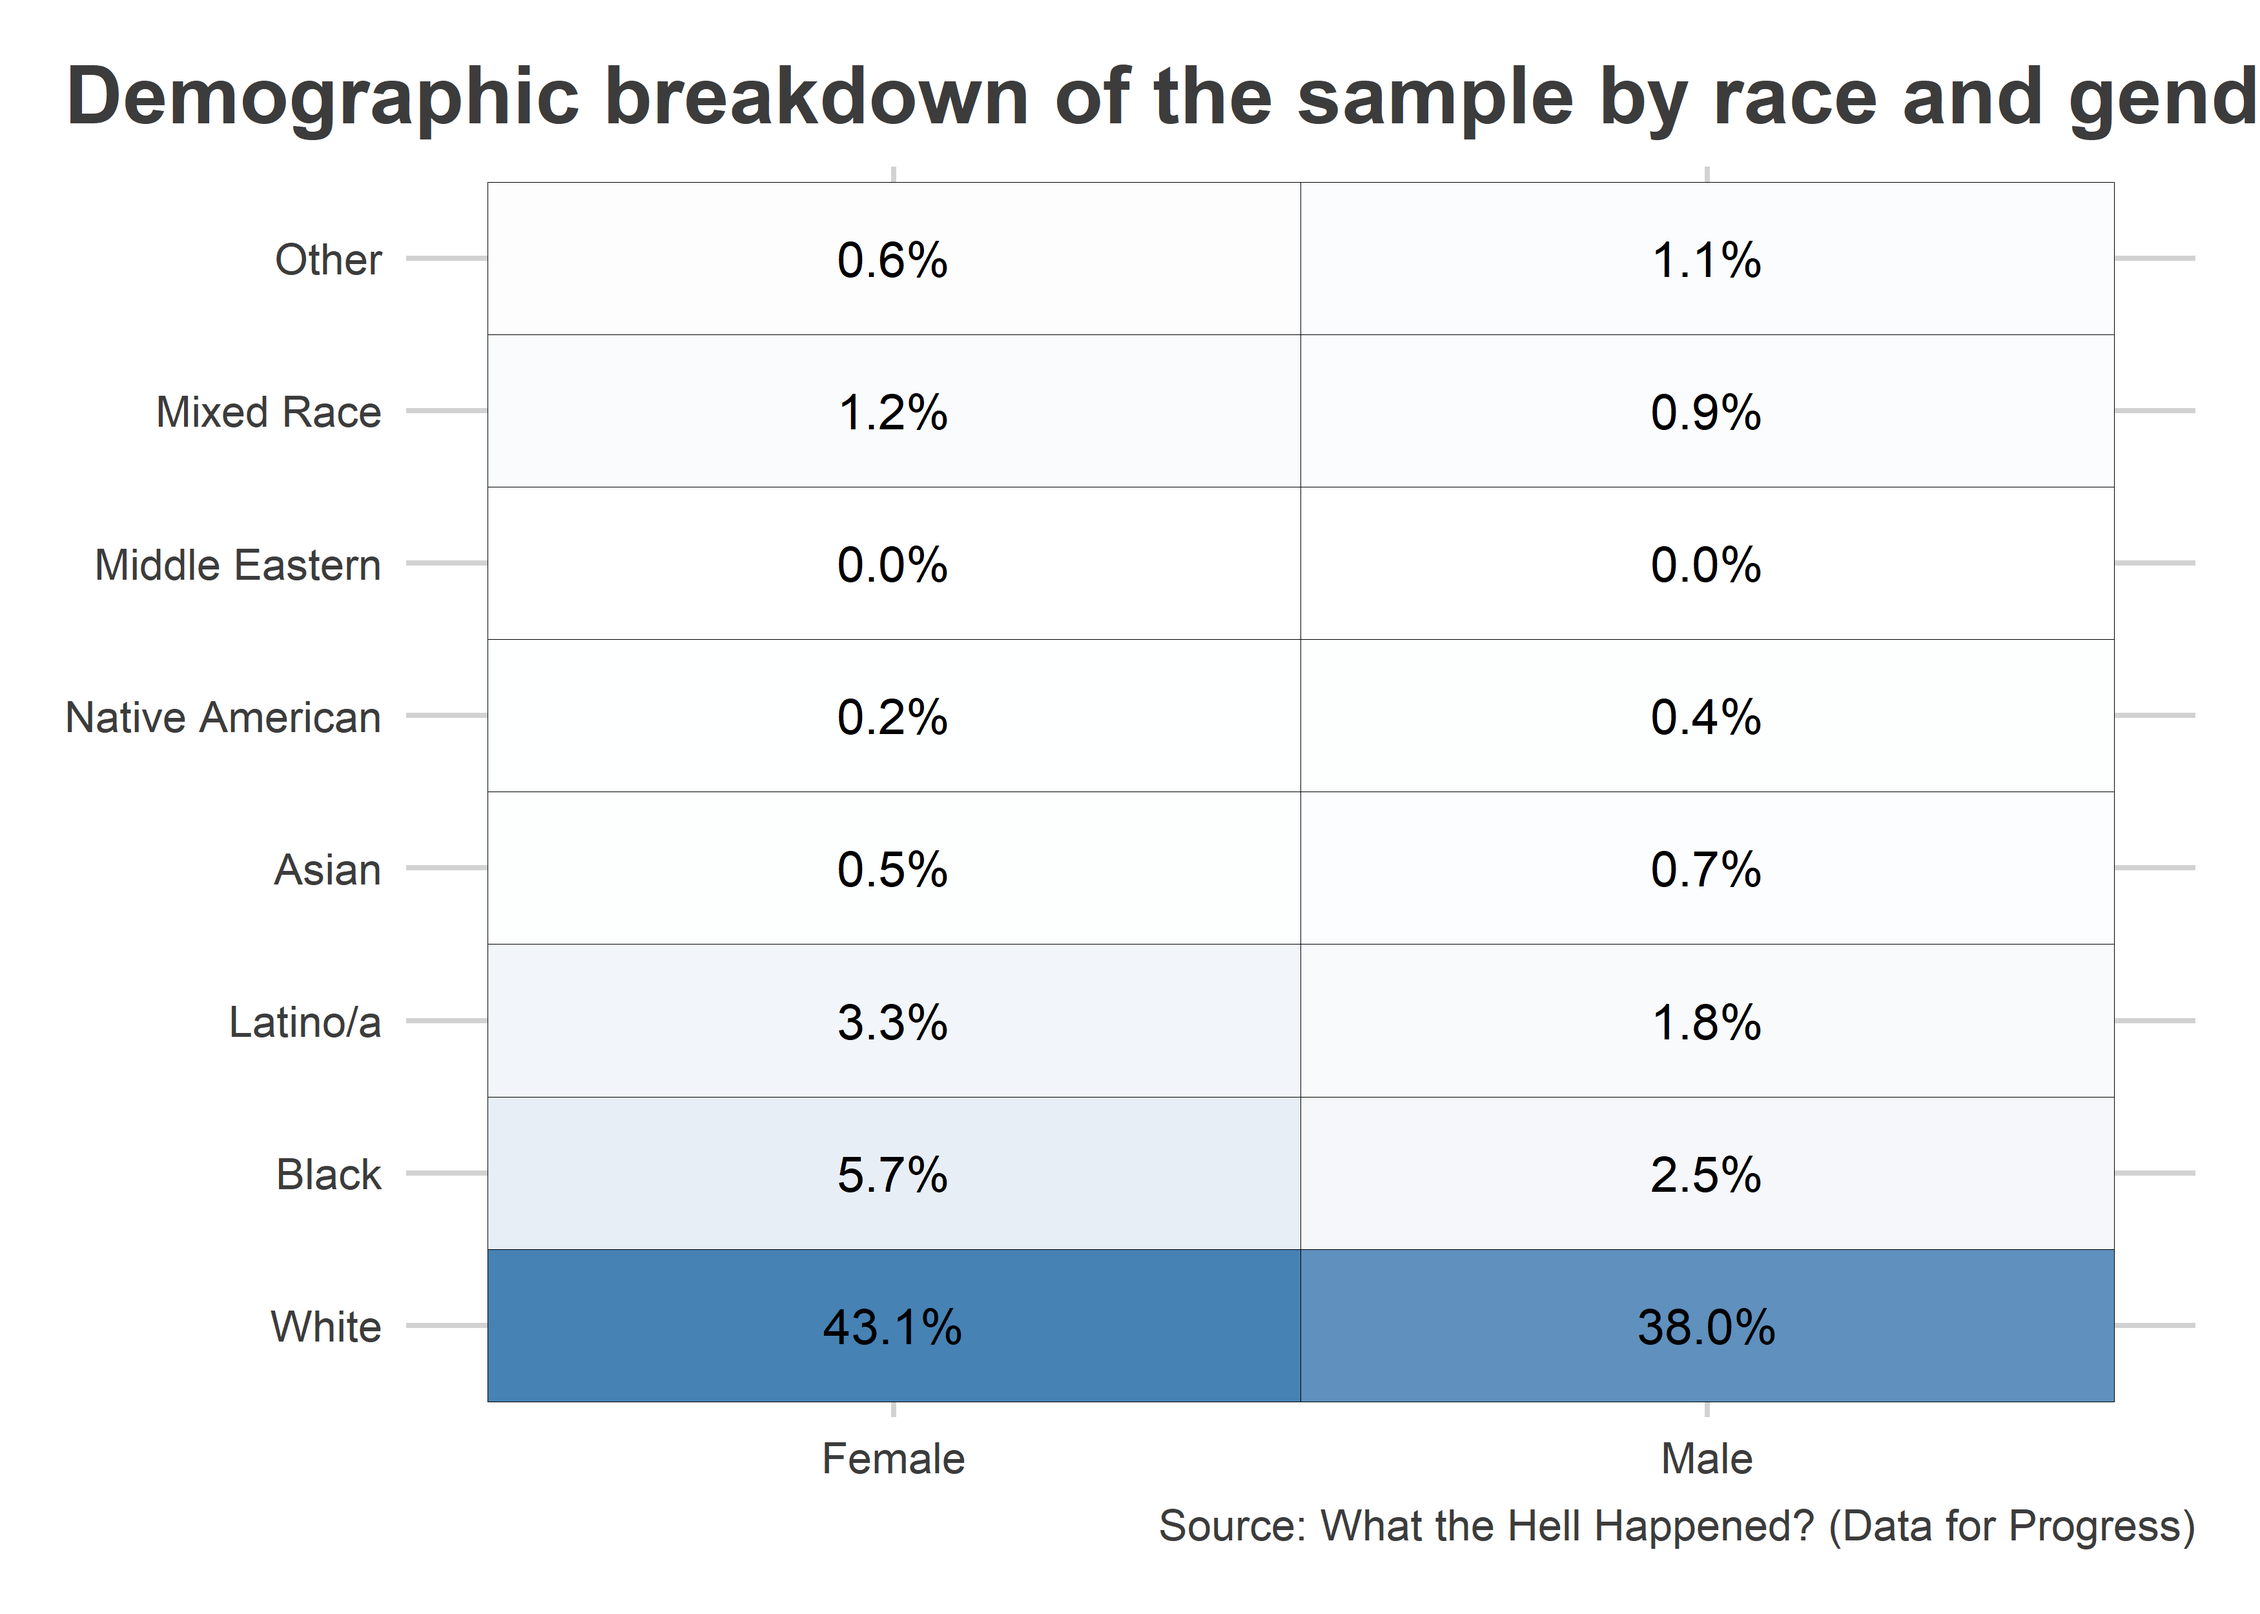
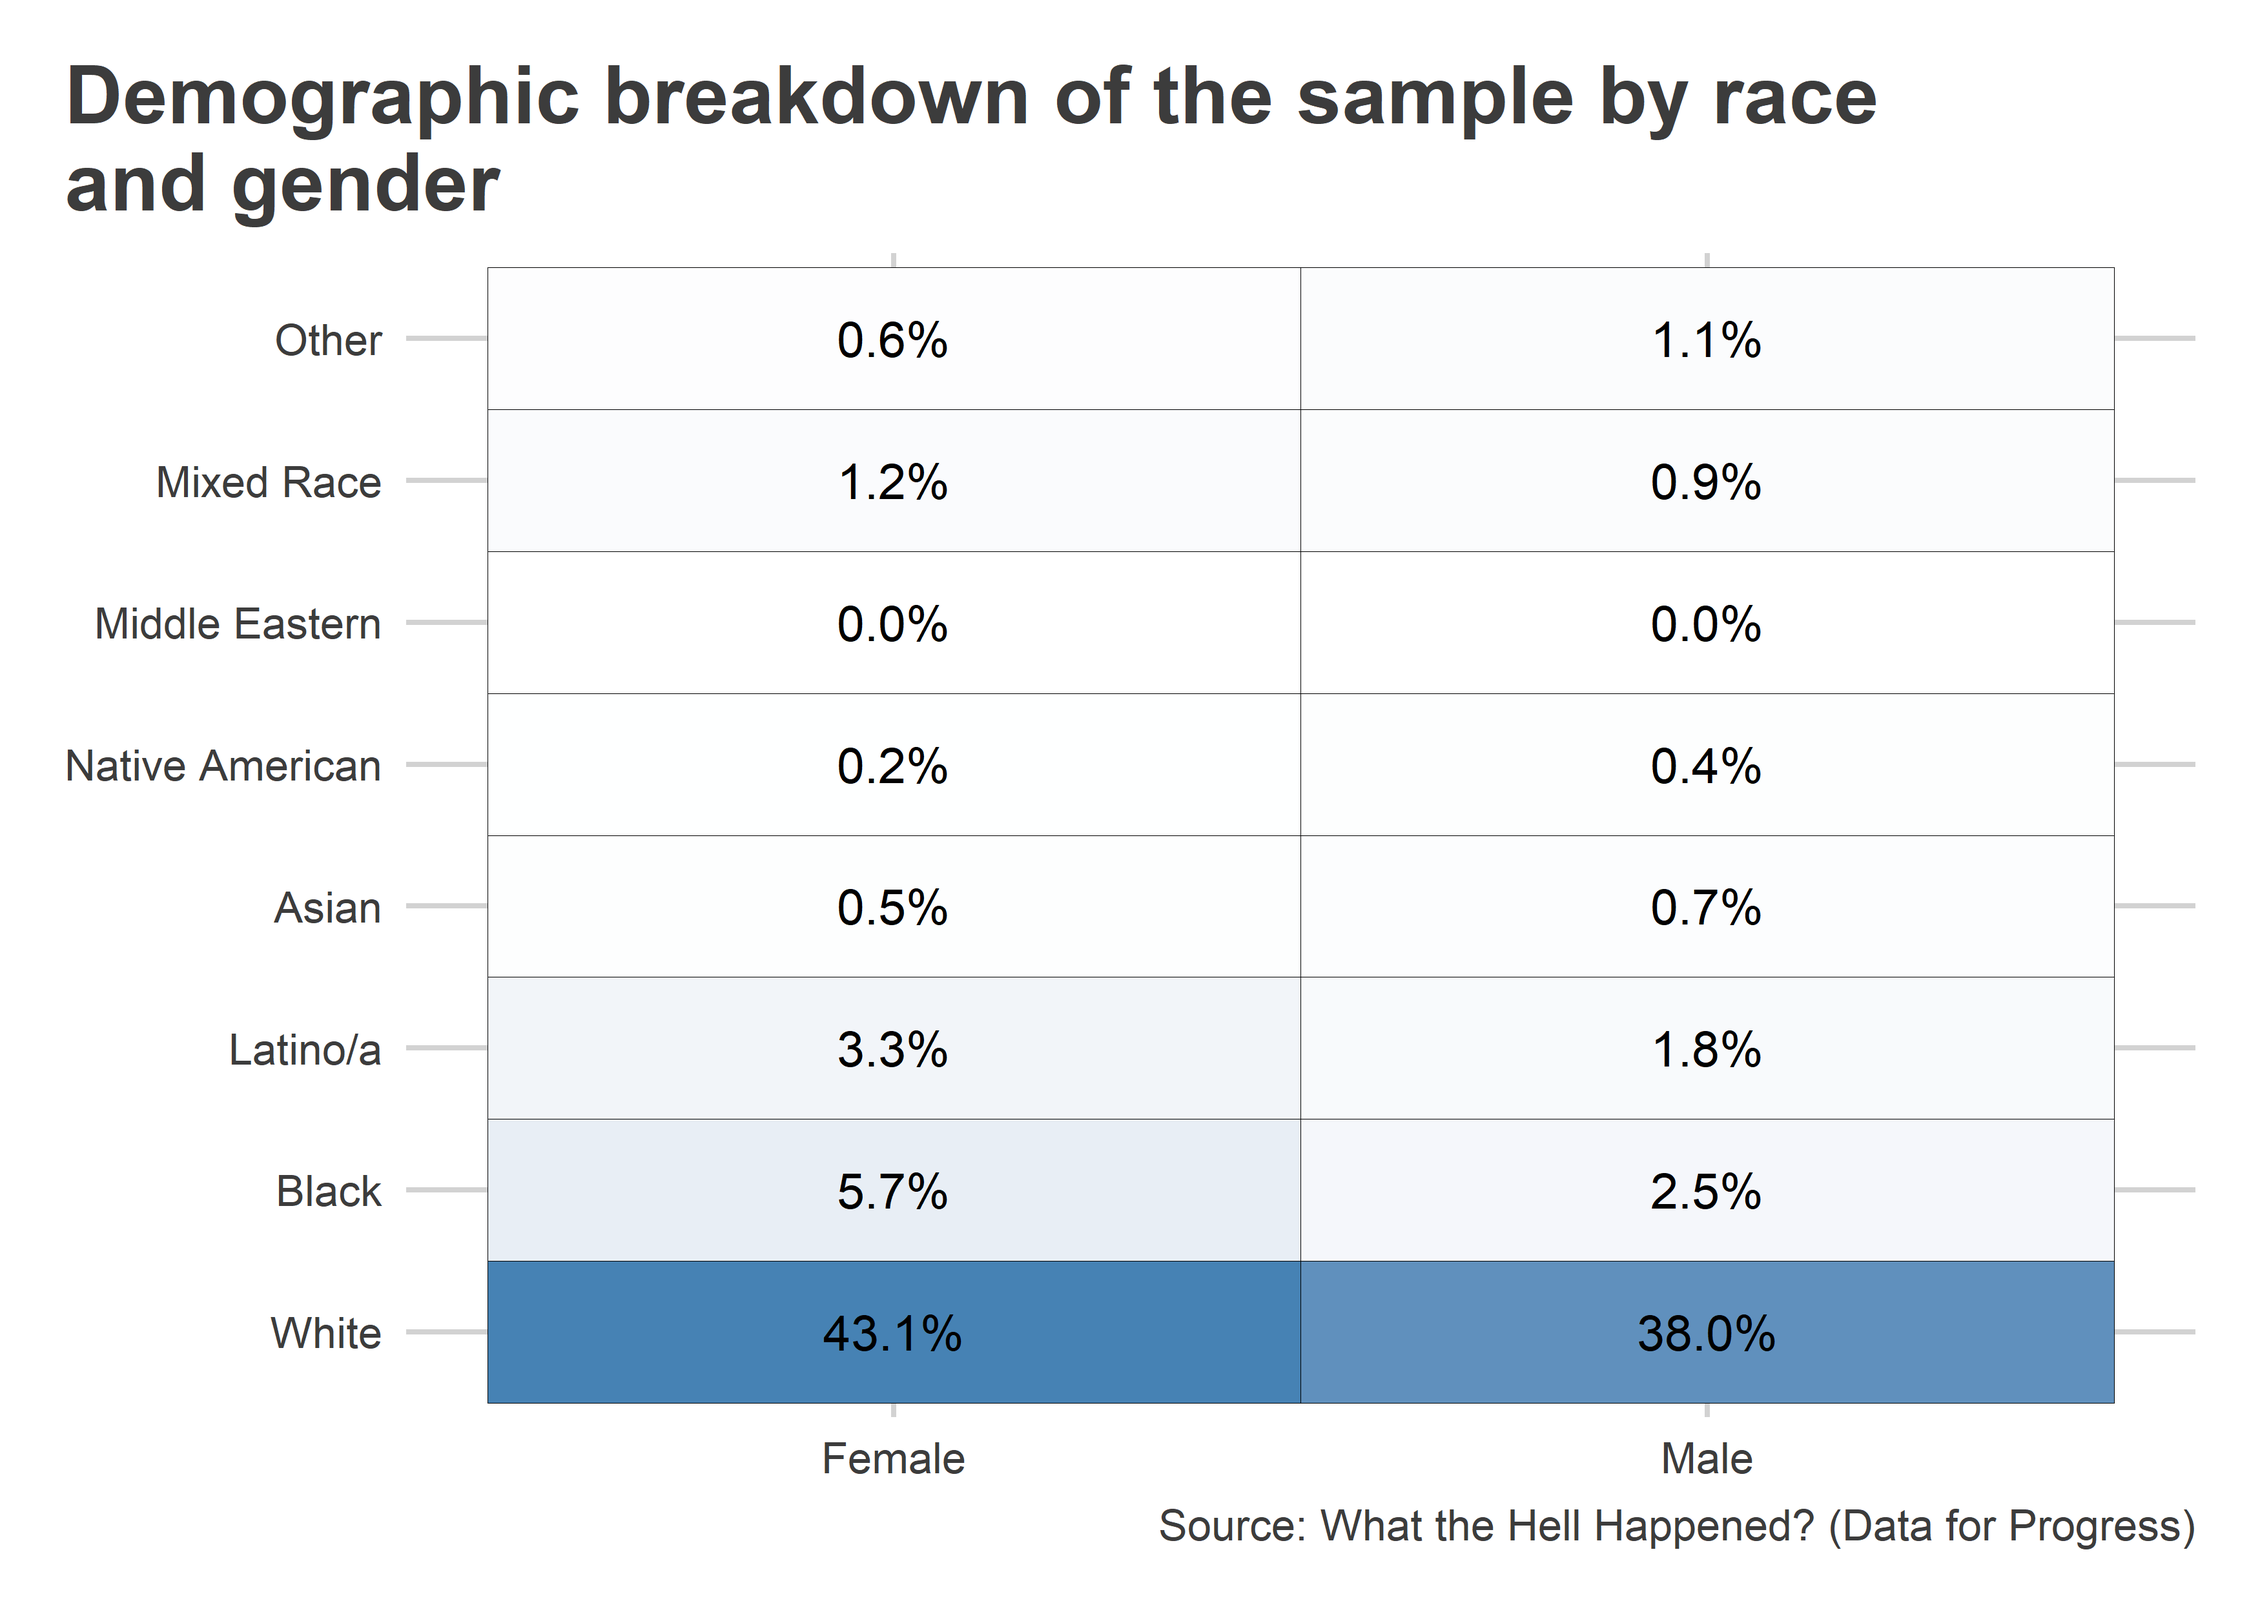
trying again

diff --git a/DPR 101/Notes/15_survey_data_pt2.md b/DPR 101/Notes/15_survey_data_pt2.md
@@ -241,7 +241,7 @@ Data |>
   labs(
     x = NULL,
     y = NULL,
-    title = "Demographic breakdown of the sample by race and gender",
+    title = "Demographic breakdown of the sample by race\nand gender",
     caption = "Source: What the Hell Happened? (Data for Progress)"
   )
 ```
